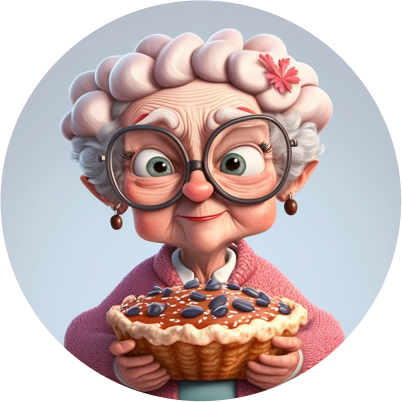
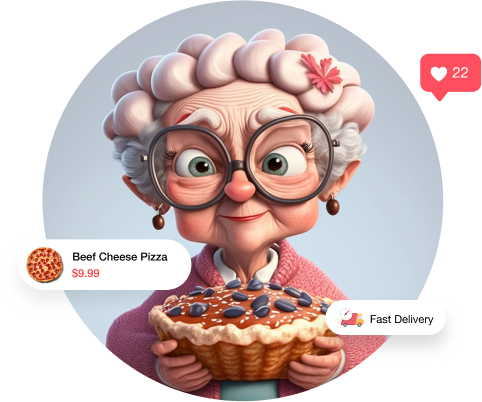
commit

diff --git a/Frontend/food website/index.html b/Frontend/food website/index.html
@@ -42,7 +42,7 @@
             </ul>
             <ul class="sameline1">
                 <li><img src="awards.png" alt="award"></li>
-                <li><img src="promote.png" alt="promote"></li>
+                <li><img src="promote1.png" alt="promote"></li>
                 <li><img src="grocery.png" alt="grocery"></li>
             </ul>
             <ul class="sameline2">
@@ -50,43 +50,110 @@
                 <li><p class="text3">8000+<br>Food Items</p></li>
                 <li><p class="text3">3000+<br>Restaurants</p></li>
             </ul>
+            </div>
+            <div class="homeimage">
+                <img class="arrow" src="vector 2.png" alt="arrow">
+                <img class="MainChef" src="mainchef.png" alt="main chef">
+                <img class="likes" src="likes.png" alt="likes">
+                <div class="sticker1"><img class="image1" src="pizza.png" alt="pizza"><p class="sms1">Beef Pizza<br>Rs.399</p></div>
+                <div class="sticker2"><img class="image2" src="fast delivery.png" alt="fast delivery"><p class="sms2">Fast Delivery</p></div>
+            </div>
         </div>
-        <div class="homeimage">
-            <img class="arrow" src="vector 2.png" alt="arrow">
-            <img class="MainChef" src="mainchef.png" alt="main chef">
-            <img class="likes" src="likes.png" alt="likes">
-            <div class="sticker1"><img class="image1" src="pizza.png" alt="pizza"><p class="sms1">Beef Pizza<br>Rs.399</p></div>
-            <div class="sticker2"><img class="image2" src="fast delivery.png" alt="fast delivery"><p class="sms2">Fast Delivery</p></div>
-            <div class="sellers"><p class="hotseller">Our Hottest Sellers</p></div>
+        <div class="sellers">
+            <p class="hotseller">Our New Hottest dish</p>
+            <img class="vector1" src="vector 1.png" alt="vector1">
         </div>
-    
         
         <div class="sellPizza">
             <img class="left" src="left arrow.png" alt="left">
             <div class="card">
+                <img class="heart" src="heart.png" alt="heart">
                 <img class="pizzas" src="Pepperoni pizza 1.png" alt="pizza">
                 <span class="title">Pepperoni pizza</span><br>
                 <span class="sub">Fresh Beef</span>
             </div>
             <div class="card">
+                <img class="heart" src="heart.png" alt="heart">
                 <img class="pizzas" src="Pepperoni pizza 2.png" alt="pizza">
                 <span class="title">BBQ pizza</span><br>
                 <span class="sub">Fresh Beef</span>
             </div>
             <div class="card">
+                <img class="heart" src="heart.png" alt="heart">
                 <img class="pizzas" src="BBQ Chicken pizza 1.png" alt="pizza">
                 <span class="title">Italian pizza</span><br>
                 <span class="sub">Fresh Beef</span>
             </div>
             <div class="card">
+                <img class="heart" src="heart.png" alt="heart">
                 <img class="pizzas" src="BBQ Chicken pizza 2.png" alt="pizza">
                 <span class="title">Caprese pizza</span><br>
                 <span class="sub">Fresh Beef</span>
             </div>
             <img class="right" src="right arrow.png" alt="right">
         </div>
+        <div class="hotel">
+           <div><img class="granny" src="cake.png" alt="cake"></div> 
+           <div class="headtext">
+            <p class="caketext">Get Started Today!</p>
+            <img class="repeat" src="vector 1.png" alt="vector1">
+            <p class="text4">Everything you need to build an amazing food restaurant<br>responsive website.</p>
+            <p class="text2">We are services offer the convenience of enjoying restaurant-quality meals from the comfort of your own home. With a few taps on your phone or clicks on your computer, you can explore a wide range of cuisines and dishes tailored to your preferences.</p>
+                <div class="sameline">
+                    <img src="food order.png" alt="food">
+                    <img class="promote" src="promote.png" alt="promote">
+                    <img class="leaf" src="leaf.png" alt="leaf">
+                </div>
+           </div>
         </div>
-        
+        <div class="bestchef">
+            <img class="repeat2" src="vector 1.png" alt="vector1">
+            <p class="cheftext">Meet Our Best Teams</p>
+            <div class="sameline1">
+                <img src="chef.png" alt="chef">
+                <img src="master chef.png" alt="masterchef">
+                <img src="professor.png" alt="professor">
+                <img src="junor chef.png" alt="juniorchef">
+            </div>
+        </div>
+        <div class="app">
+            <img class="appimg" src="download app.png" alt="downloadApp">
+        </div>
+        <div class="footer">
+            <div class="sameline2">
+                <div class="foot1">
+                    <img class="logoposition" src="logo.png" alt="logo">
+                    <p class="text5">Book your trip in minute, get full Control for much longer.</p>
+                </div>
+                <div class="foot1">
+                    <p class="text4">Company</p>
+                    <ul class="company">
+                        <li class="text5">About</li>
+                        <li class="text5">Career</li>
+                        <li class="text5">Mobile</li>
+                    </ul>
+                </div>
+                <div class="foot1">
+                    <p class="text4">Contact</p>
+                    <ul class="company">
+                        <li class="text5">Help/FAQ</li>
+                        <li class="text5">Affiliates</li>
+                        <li class="text5">Press</li>
+                    </ul>
+                </div>
+                <div class="foot1">
+                    <p class="text4">More Info</p>
+                    <ul class="company">
+                        <li class="text5">Airlinefees</li>
+                        <li class="text5">Airline</li>
+                        <li class="text5">Low Fair Tips</li>
+                    </ul>
+                </div>
+                <div class="foot2">
+                    <img src="Outbound.png" alt="Outbound">
+                </div>
+            </div>
+        </div>
     </div>
 </body>
 </html>

diff --git a/Frontend/food website/style.css b/Frontend/food website/style.css
@@ -1,8 +1,9 @@
 body{
     background-color: #111111;
     width: 1323.58px;
-    height: 3283px;
+    height: 2800px;
     color:#ffff;
+    box-sizing: border-box;
 
 }
 .nav1{
@@ -76,6 +77,7 @@ body{
     font-family: "Work Sans", sans-serif;
     font-size: 14px;
     font-weight: 400;
+    opacity: 50%;
 }
 .homeimage{
     display: flex;
@@ -225,22 +227,23 @@ body{
     color: gold;
     font-size: 12px;
     font-family: "Aoboshi One" ,sans-serif;
-    padding: 28px;
+    padding-left: 28px;
 }
 .sub{
     color: beige;
     font-size: 12px;
     font-family: "Aoboshi One" ,sans-serif;
-    padding: 28px;
+    padding-left: 28px;
 }
 .red{
     color: #B31312;
 }
-.stickers{
+.sellers{
     height: 150px;
-    width: 300px;
+    width: 500px;
     position: absolute;
-    border: 3px solid #B74118;
+    align-items: center;
+    margin-left: 450px;
 }
 .hotseller{
     font-size: 34.93px;
@@ -249,5 +252,121 @@ body{
     text-align: center;
     font-family: "Aoboshi One" ,sans-serif;
     padding: 28px;
+}
+.vector1{
+    width:270px;
+    height: 70px;
+    margin-left: 210px;
+    margin-top: -120px;
+    position: absolute;
+}
+.heart{
+   padding-top: 15px;
+   margin-left: 130px;
+}
+.hotel{
+    width: 1300px;
+    height: 565px;
+    display: flex;
+    margin-top: 600px;
+    margin-left: 100px;
 
+}
+.granny{
+    width: 470px;
+    height: 400px;
+}
+.caketext{
+    font-family: "Aoboshi One";
+    font-size: 34.93px;
+    font-weight: 400;
+    line-height: 45.43px;
+    text-align: justify;
+    margin-left: 100px;
+    position: absolute;
+}
+.repeat{
+    margin-left: 300px;
+    margin-top: 25px;
+}
+.text4{
+    font-family: Aoboshi One;
+    font-size: 20px;
+    font-weight: 400;
+    text-align: justify;
+    margin-left: 100px;
+}
+.promote{
+    width: 198px;
+    height: 160px;
+    margin-top: 40px;
+    border: 1 px solid #A2A2A229;
+    border-style:inset;
+    border-radius: 20px;
+}
+.leaf{
+    width: auto;
+    height: 90px;
+    margin-top: 200px;
+}
+.bestchef{
+    width: 1300px;
+    height: 565px;
+    margin-left: 50px;
+}
+.cheftext{
+    position: relative;
+    font-family: "Aoboshi One";
+    font-size: 34.93px;
+    font-weight: 400;
+    text-align: center;
+}
+.repeat2{
+   margin-left: 630px;
+    margin-top:-15px; 
+   position:absolute;
+   width: 220px;
+   height: auto;
+}
+.app{
+   width: 1323.58px;
+   height: 500px;
+   margin-left: 100px;
+   position: absolute;
+   margin-top: -100px;
+}
+.appimg{
+    width: 1323.58px;
+    height: 500px;
+}
+.footer{
+    width: 1300px;
+    height: 270px;
+    display: flex;
+    margin-top: 400px;
+    margin-left: 80px;
+}
+.foot1{
+    width: 250px;
+    height: 200px;
+    margin-top: 80px;
+    margin-left: -60px;
+}
+.logoposition{
+    margin-left: 50px;
+}
+.text5{
+    font-family: "Work Sans", sans-serif;
+    font-size: 14px;
+    font-weight: 400;
+    opacity: 50%;
+    line-height: 30px;
+}
+.company{
+    list-style: none;
+    margin-left: 70px;
+}
+.foot2{
+    margin-top: 80px;
+    margin-left: 100px;
 }
